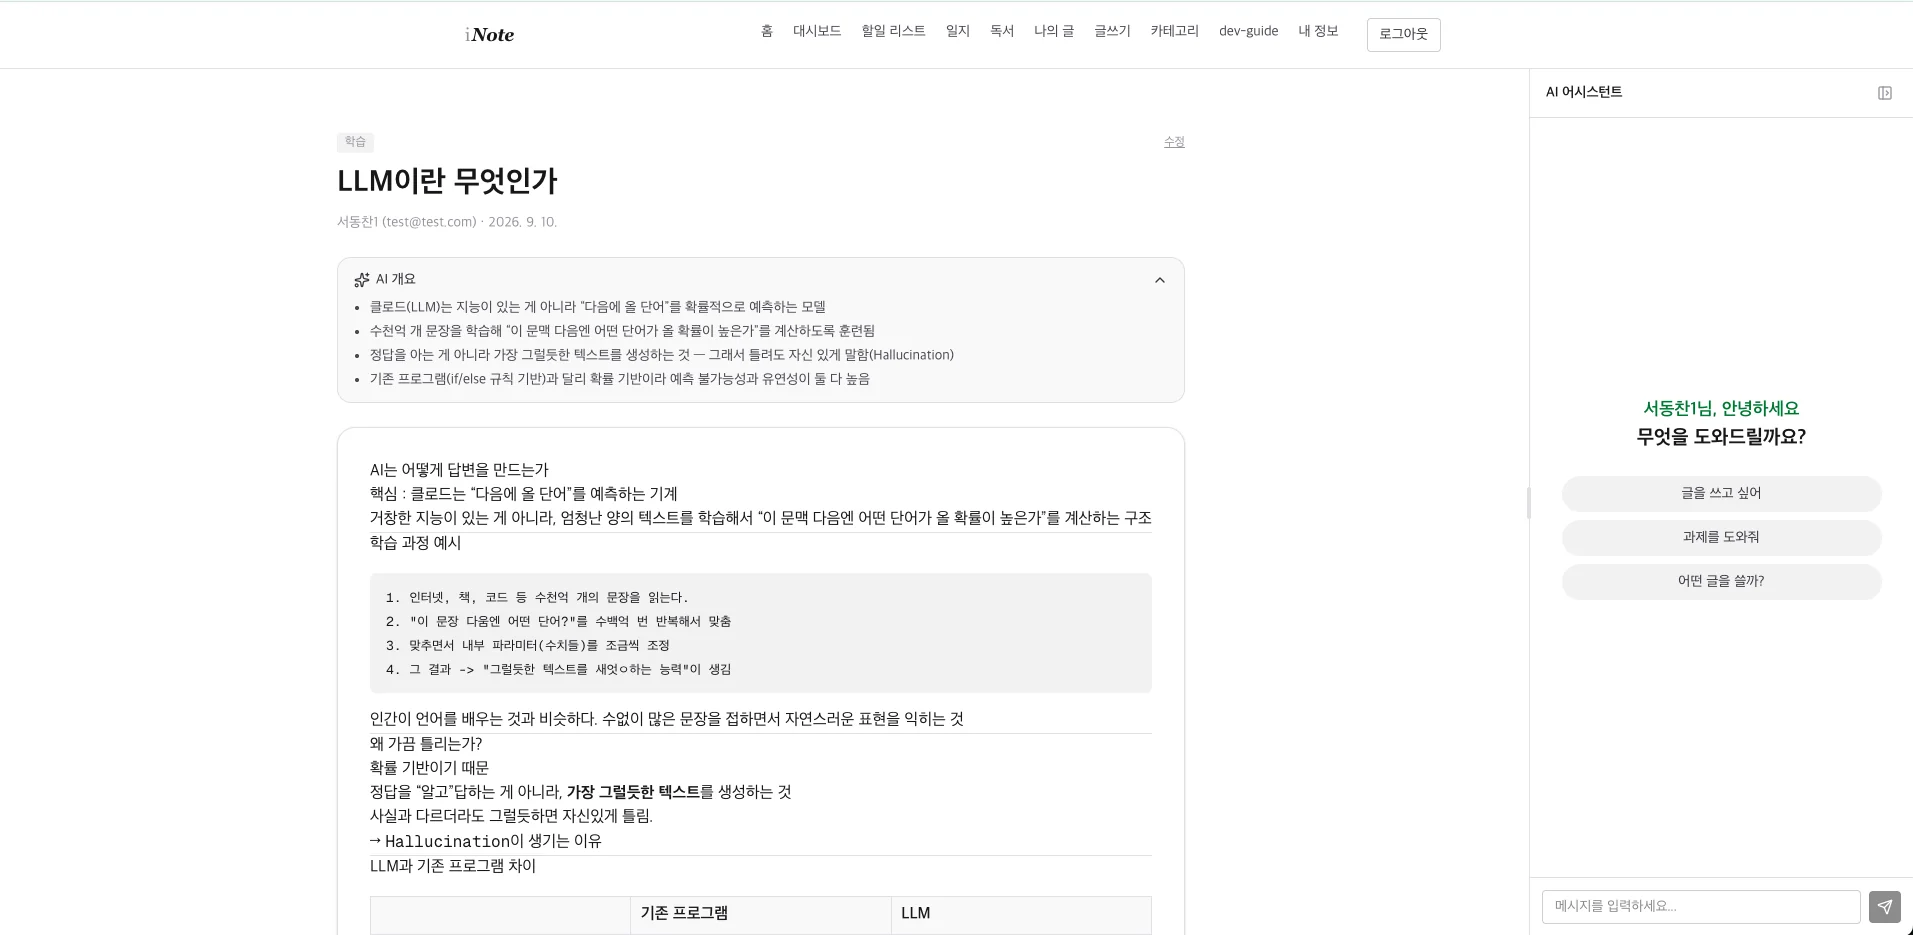
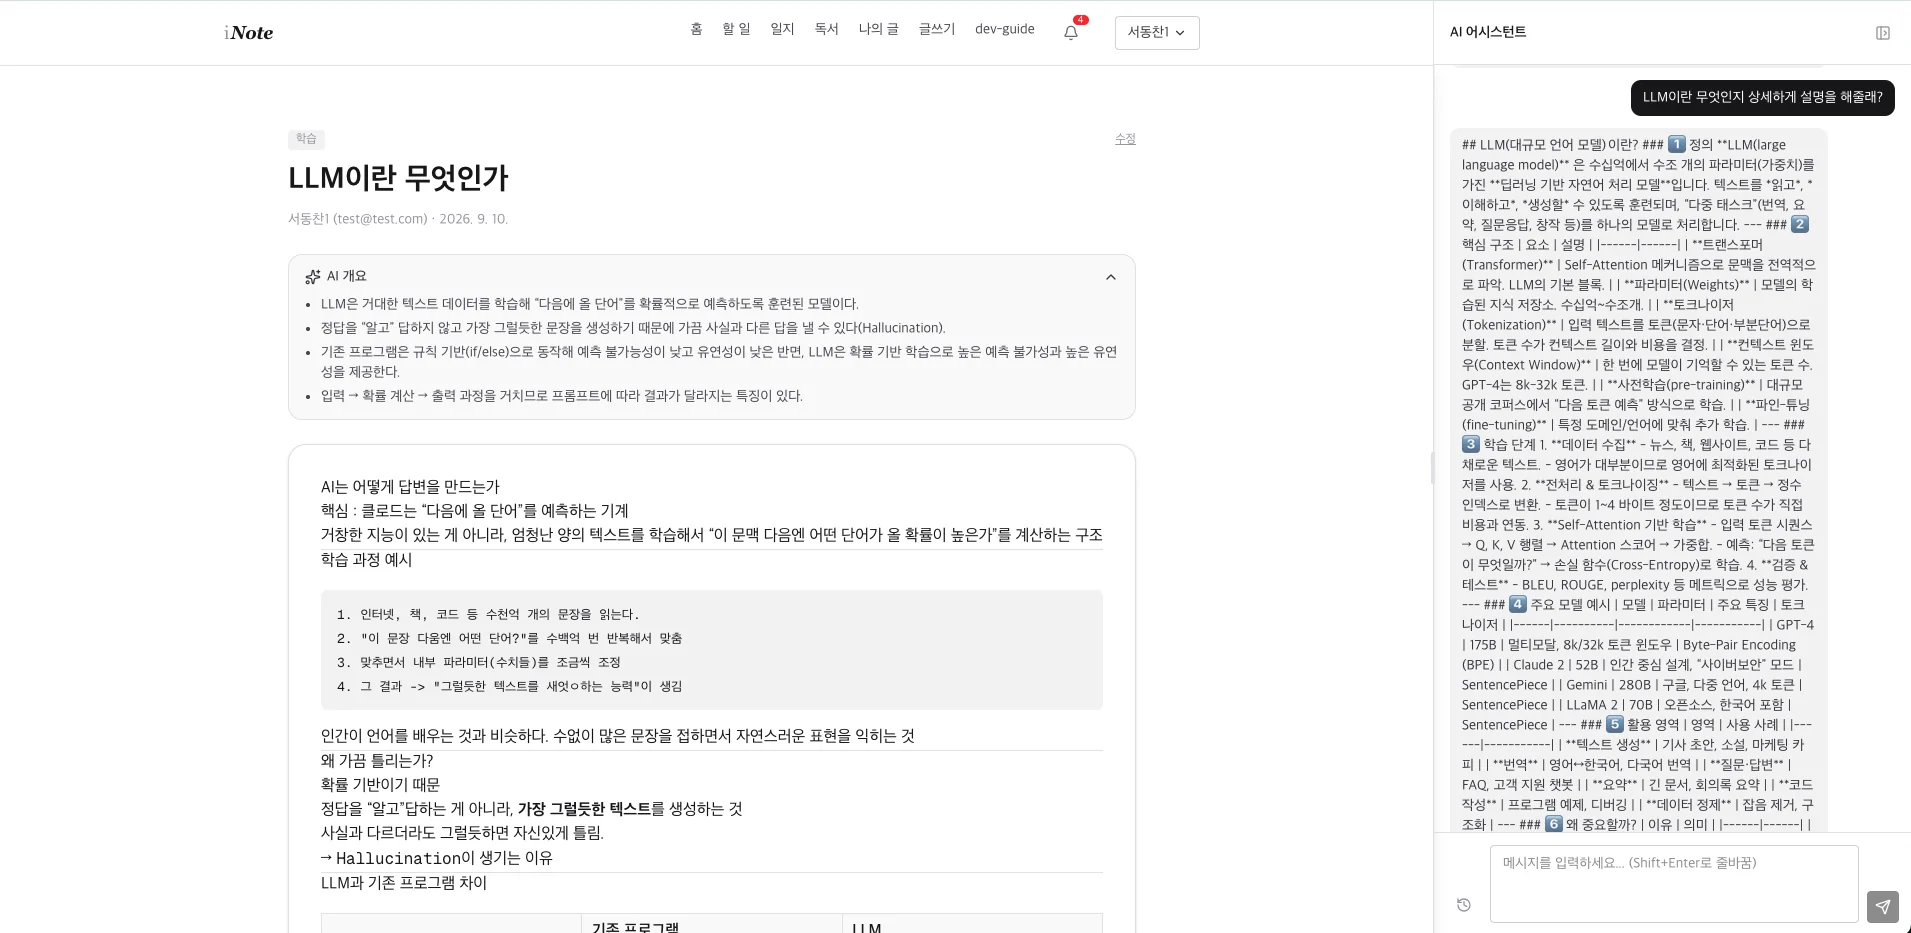
content: INOTE 카드 최신 진행 상황 반영 및 스크린샷 갱신
- "막힌 지점" 문단을 Groq SSE 스트리밍·프롬프트 컨텍스트·세션 분리/검색 구현 내용으로 교체
- AI 스킬 카드에서 "(예정)" 배지를 카드 전체가 아닌 pgvector 칩에만 표시
- PC/모바일 스크린샷을 최신 배포 UI(AI 어시스턴트 패널 포함)로 교체

diff --git a/index.html b/index.html
@@ -607,7 +607,7 @@
           <div class="narrative">
             <p><span class="label">배경</span> — AI 모델을 활용해 LLM을 붙이고, 이를 학습시켜 블로그 요약·할 일 자동 체크 등 다양한 기능을 수행하는 agent AI로 발전시키는 것이 목표입니다.</p>
             <p><span class="label">작업</span> — 기존 inote-server(NestJS)는 그대로 유지하고, Python + Groq(추후 유료 모델로 교체 예정) 기반으로 LLM 전용 서버를 별도로 구성했습니다.</p>
-            <p><span class="label">막힌 지점</span> — LLM 전용 서버는 만들었지만 데이터를 어떻게 쌓을지가 관건입니다. 페이지마다 필요한 LLM 지침(컨텍스트)이 달라서, 이걸 어떤 구조·전략으로 관리할지 계속 테스트하는 중입니다.</p>
+            <p><span class="label">구현</span> — Groq API로 SSE 스트리밍 채팅을 구축해 응답을 실시간으로 흘려보내도록 만들었습니다. 사용자가 지금 작성 중인 글의 제목·카테고리를 매 요청마다 함께 보내 LLM이 "지금 쓰고 있는 글"을 인지한 채로 대화하도록 프롬프트 구조를 설계했고, 대화는 글쓰기 세션·일반 세션으로 나눠 저장하고 검색까지 붙였습니다.</p>
           </div>
 
           <div class="skills-grid">
@@ -637,11 +637,11 @@
               </div>
             </div>
             <div class="skill-card reveal">
-              <h3>AI <span style="font-weight:500;color:var(--muted);">(예정)</span></h3>
+              <h3>AI</h3>
               <div class="chips">
                 <span class="chip">Python</span>
                 <span class="chip">FastAPI</span>
-                <span class="chip">pgvector</span>
+                <span class="chip">pgvector <span style="font-weight:500;color:var(--muted);">(예정)</span></span>
                 <span class="chip">Groq API</span>
               </div>
             </div>
